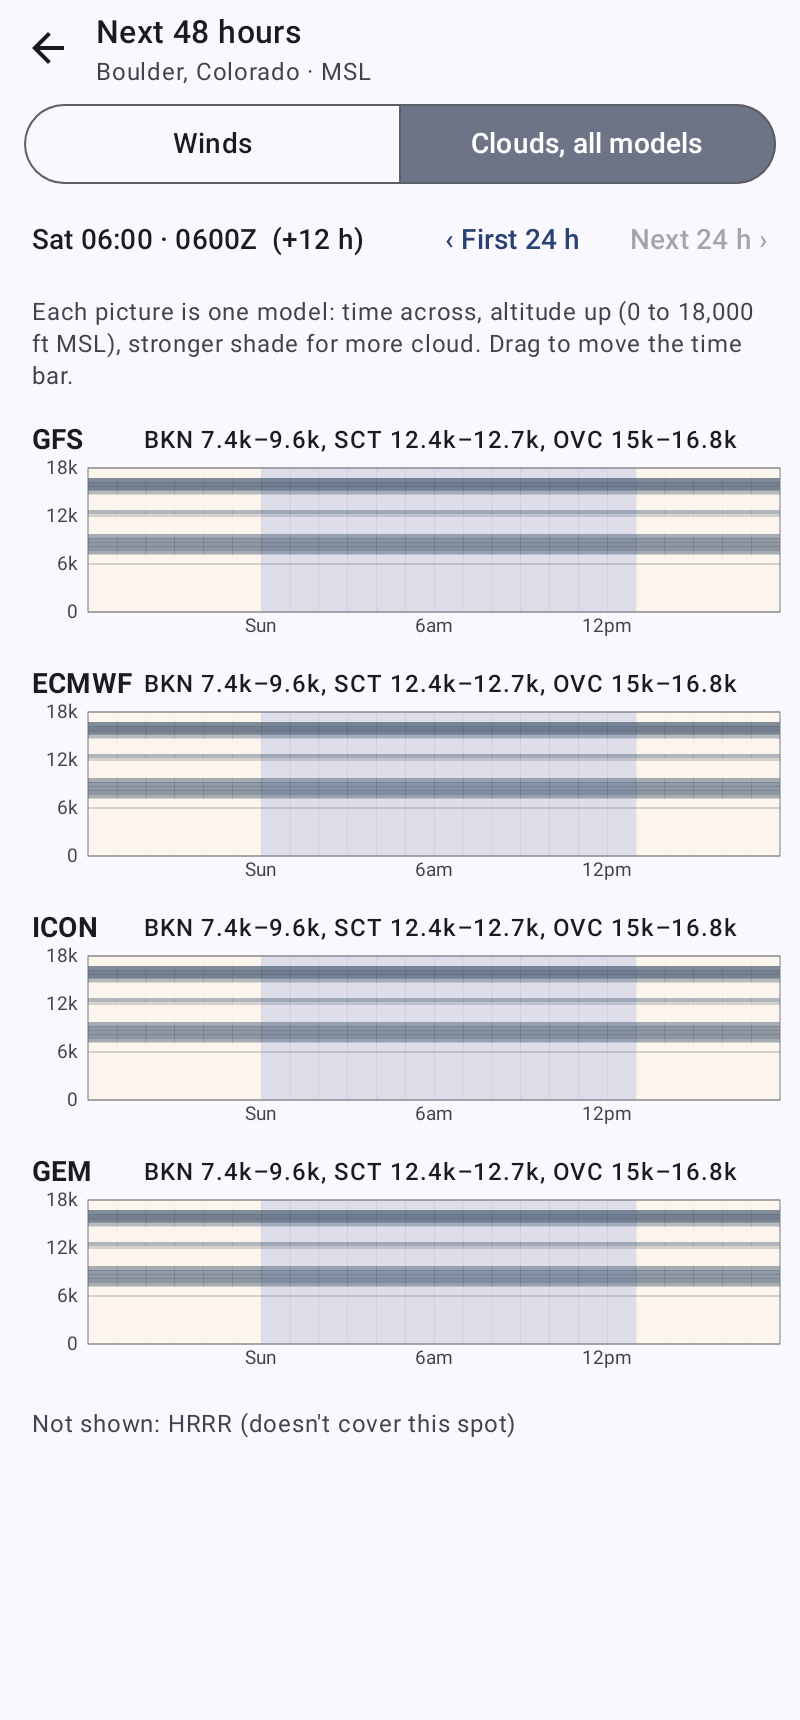
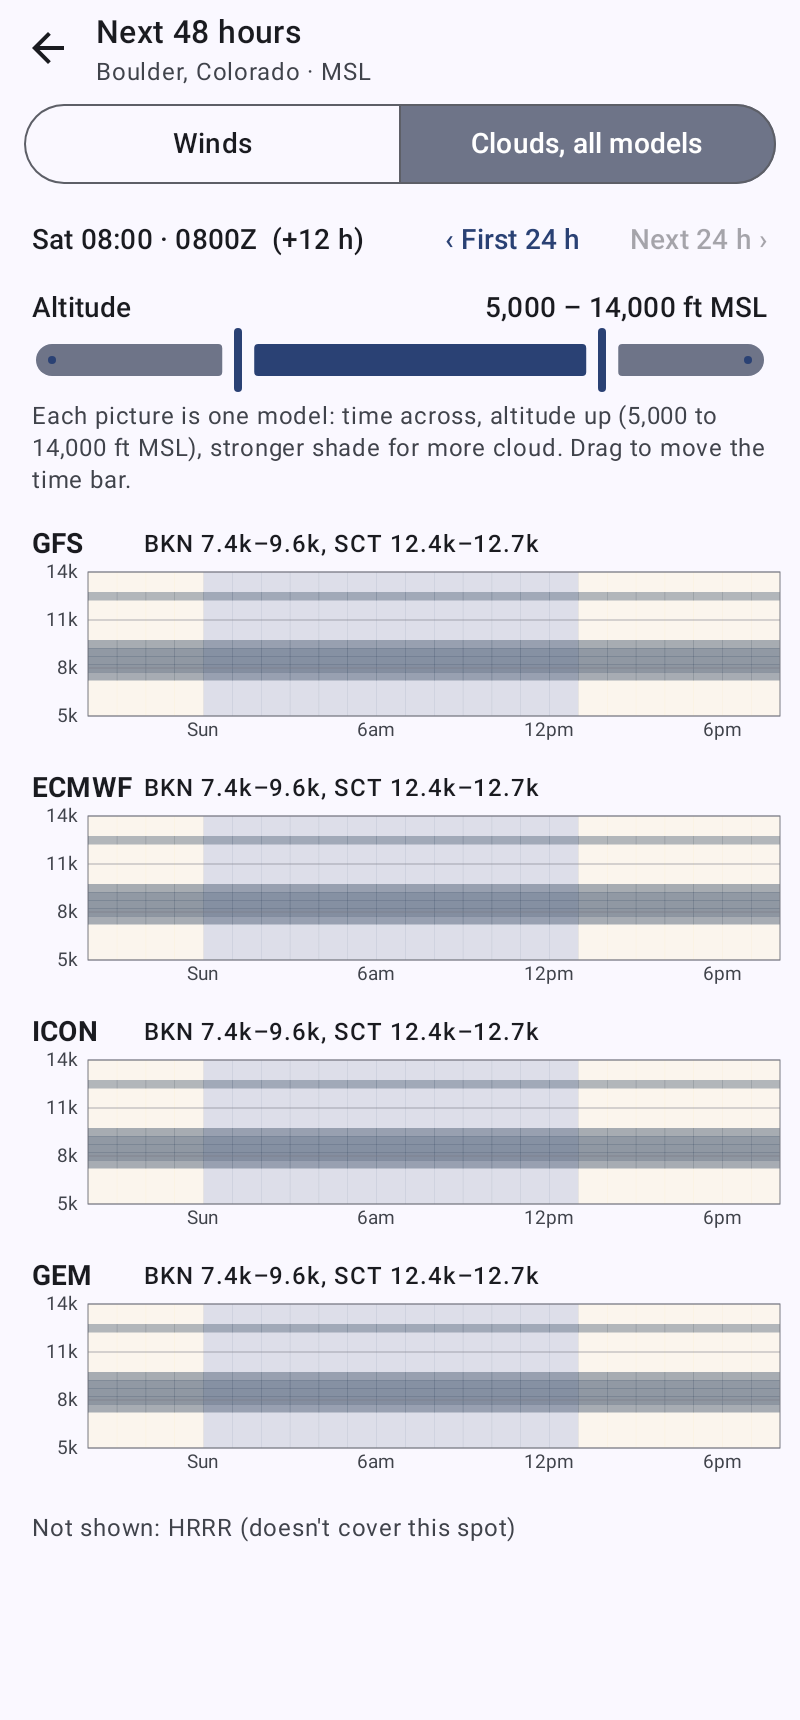
0.11.2: altitude range slider on the two-day page
The two-day page gets the same altitude range slider as the map (one
shared setting): wind strips show only the picked altitudes and the
cloud pictures span that range, with matching layer summaries. Also
avoids the first day's label overlapping a nearby midnight label.

Claude-Session: https://claude.ai/code/session_01ASfqcF537i7kv6SW4BHrd9

diff --git a/app/src/main/java/dev/windsaloft/ui/TwoDayScreen.kt b/app/src/main/java/dev/windsaloft/ui/TwoDayScreen.kt
@@ -27,6 +27,7 @@ import androidx.compose.material3.FilterChip
 import androidx.compose.material3.Icon
 import androidx.compose.material3.IconButton
 import androidx.compose.material3.MaterialTheme
+import androidx.compose.material3.RangeSlider
 import androidx.compose.material3.SegmentedButton
 import androidx.compose.material3.SegmentedButtonDefaults
 import androidx.compose.material3.SingleChoiceSegmentedButtonRow
@@ -99,7 +100,7 @@ private const val WINDOW = 24
  * the time bar past the edge, or use the 24 h buttons to see the other day.
  */
 @Composable
-fun TwoDayScreen(state: UiState, onDismiss: () -> Unit, modifier: Modifier = Modifier) {
+fun TwoDayScreen(state: UiState, onDismiss: () -> Unit, onAltRange: (IntRange) -> Unit = {}, modifier: Modifier = Modifier) {
     BackHandler(onBack = onDismiss)
     val s = state.settings
     val models = s.modelIds
@@ -137,6 +138,7 @@ fun TwoDayScreen(state: UiState, onDismiss: () -> Unit, modifier: Modifier = Mod
                 TextButton(onClick = { scope.launch { scroll.animateTo(0f) } }, enabled = scroll.value > 0.01f) { Text("‹ First 24 h") }
                 TextButton(onClick = { scope.launch { scroll.animateTo(1f) } }, enabled = scroll.value < 0.99f) { Text("Next 24 h ›") }
             }
+            AltitudeRange(state, onAltRange)
             val axis = remember { AxisModel({ scroll.value }) { f -> scope.launch { scroll.snapTo(f.coerceIn(0f, 1f)) } } }
             if (!cloudsAll) {
                 // Only the models picked in Settings; one tap switches.
@@ -168,6 +170,28 @@ fun TwoDayScreen(state: UiState, onDismiss: () -> Unit, modifier: Modifier = Mod
                 AllModelClouds(state, models.filter { state.pinForecasts[it] != null }, cursor, zone, axis, shade, Modifier.weight(1f).fillMaxWidth(), onCursor = { cursor = it })
             }
         }
+    }
+}
+
+/** The same altitude range as the main map (changing it here changes it there too). */
+@Composable
+private fun AltitudeRange(state: UiState, onAltRange: (IntRange) -> Unit) {
+    val s = state.settings
+    val ceilK = s.ceilingFt / 1000
+    Column(Modifier.fillMaxWidth().padding(horizontal = 16.dp)) {
+        Row(verticalAlignment = Alignment.CenterVertically) {
+            Text("Altitude", style = MaterialTheme.typography.labelLarge, modifier = Modifier.weight(1f))
+            Text(
+                "${Format.feet(state.altRangeK.first * 1000)} – ${Format.feet(state.altRangeK.last * 1000)} ft ${s.altitudeRef.name}",
+                style = MaterialTheme.typography.labelLarge,
+            )
+        }
+        RangeSlider(
+            value = state.altRangeK.first.toFloat()..state.altRangeK.last.toFloat(),
+            onValueChange = { r -> onAltRange(r.start.roundToInt()..r.endInclusive.roundToInt()) },
+            valueRange = 0f..ceilK.toFloat(),
+            modifier = Modifier.height(32.dp).semantics { contentDescription = "Altitude range" },
+        )
     }
 }
 
@@ -238,8 +262,8 @@ private fun WindStrips(
     modifier: Modifier, onCursor: (Int) -> Unit,
 ) {
     val s = state.settings
-    // All altitudes up to the ceiling, ground at the bottom; the map's altitude range is ignored here.
-    val altitudes = remember(s.ceilingFt) { (0..s.ceilingFt / 1000).map { it * 1000 } }
+    // The altitude range from the slider (shared with the map), ground at the bottom.
+    val altitudes = remember(state.altRangeK) { state.altitudesFt }
     val winds = remember(fp, state.nowHourEpoch, s.altitudeRef, altitudes) {
         (0..HOURS).map { h -> fp.windsAt(state.nowHourEpoch + h * 3600L, altitudes, s.altitudeRef) }
     }
@@ -370,7 +394,9 @@ private fun AllModelClouds(
     val muted = MaterialTheme.colorScheme.onSurfaceVariant
     val line = MaterialTheme.colorScheme.outlineVariant
     val cloudInk = if (MaterialTheme.colorScheme.surface.luminance() < 0.5f) Color(0xFFC9D3DE) else Color(0xFF55657A)
-    val ceiling = s.ceilingFt
+    // The picture spans the altitude range from the slider.
+    val lo = state.altRangeK.first * 1000
+    val hi = maxOf(state.altRangeK.last * 1000, lo + 1000)
     val step = 500
     val day = remember(state.pin, state.nowHourEpoch) { dayHours(state) }
     val density = LocalDensity.current.density
@@ -378,24 +404,24 @@ private fun AllModelClouds(
     val rightPad = 10 * density
     Column(modifier.verticalScroll(rememberScrollState()).padding(bottom = 16.dp)) {
         Text(
-            "Each picture is one model: time across, altitude up (0 to ${Format.feet(ceiling)} ft ${s.altitudeRef.name}), stronger shade for more cloud. Drag to move the time bar.",
+            "Each picture is one model: time across, altitude up (${Format.feet(lo)} to ${Format.feet(hi)} ft ${s.altitudeRef.name}), stronger shade for more cloud. Drag to move the time bar.",
             style = MaterialTheme.typography.bodySmall, color = muted, modifier = Modifier.padding(horizontal = 16.dp, vertical = 4.dp),
         )
         if (models.isEmpty()) Text(if (state.pinLoading) "Loading forecasts…" else "No forecasts available.", Modifier.padding(16.dp))
         models.forEach { id ->
             val fp = state.pinForecasts[id] ?: return@forEach
-            val grid = remember(fp, state.nowHourEpoch, s.altitudeRef, ceiling) {
+            val grid = remember(fp, state.nowHourEpoch, s.altitudeRef, lo, hi) {
                 val base = if (s.altitudeRef == AltitudeRef.AGL) fp.elevationM else 0.0
                 (0..HOURS).map { h ->
                     val levels = fp.clouds.getOrNull(fp.hourIndex(state.nowHourEpoch + h * 3600L)).orEmpty()
-                    (0..ceiling / step).map { k ->
-                        val m = base + k * step * M_PER_FT
+                    (0..(hi - lo) / step).map { k ->
+                        val m = base + (lo + k * step) * M_PER_FT
                         if (levels.isEmpty() || m < fp.elevationM) -1.0 else WindMath.cloudAt(levels, m) ?: 0.0
                     }
                 }
             }
             val noData = grid.all { col -> col.all { it < 0 } }
-            val layers = fp.cloudLayers(state.nowHourEpoch + cursor * 3600L, s.altitudeRef, 0, ceiling)
+            val layers = fp.cloudLayers(state.nowHourEpoch + cursor * 3600L, s.altitudeRef, lo, hi)
             Row(Modifier.padding(start = 16.dp, end = 12.dp, top = 10.dp), verticalAlignment = Alignment.CenterVertically) {
                 Text(OpenMeteo.short(id), style = MaterialTheme.typography.labelLarge, fontWeight = FontWeight.Bold, modifier = Modifier.width(56.dp))
                 Text(
@@ -406,14 +432,17 @@ private fun AllModelClouds(
             Canvas(Modifier.fillMaxWidth().height(92.dp).timeGestures(axis, { y, h -> y > h - 16 * density }, onCursor, left, rightPad)) {
                 val ax = TimeAxis(left, size.width - rightPad, axis.scroll)
                 val top = 4.dp.toPx(); val bottom = size.height - 16.dp.toPx()
-                fun y(ft: Float) = bottom - (bottom - top) * ft / ceiling
+                fun y(ft: Float) = bottom - (bottom - top) * (ft - lo) / (hi - lo)
+                val bin = (bottom - top) * step / (hi - lo)
                 clipRect(ax.left, 0f, ax.right, size.height) {
                     dayNight(ax, day, shade, top, bottom, null)
-                    for (h in 0 until HOURS) grid[h].forEachIndexed { k, pct ->
-                        if (pct >= WindMath.CLOUD_LAYER_MIN_PCT) drawRect(
-                            cloudInk.copy(alpha = (0.2 + 0.65 * pct / 100).toFloat().coerceAtMost(0.88f)),
-                            Offset(ax.x(h.toFloat()), y((k + 0.5f) * step)), Size(ax.x(h + 1f) - ax.x(h.toFloat()) + 0.5f, y(0f) - y(step.toFloat()) + 0.5f),
-                        )
+                    clipRect(ax.left, top, ax.right, bottom) {
+                        for (h in 0 until HOURS) grid[h].forEachIndexed { k, pct ->
+                            if (pct >= WindMath.CLOUD_LAYER_MIN_PCT) drawRect(
+                                cloudInk.copy(alpha = (0.2 + 0.65 * pct / 100).toFloat().coerceAtMost(0.88f)),
+                                Offset(ax.x(h.toFloat()), y(lo + (k + 0.5f) * step)), Size(ax.x(h + 1f) - ax.x(h.toFloat()) + 0.5f, bin + 0.5f),
+                            )
+                        }
                     }
                     for (h in 0..HOURS) {
                         val zt = Instant.ofEpochSecond(state.nowHourEpoch + h * 3600L).atZone(zone)
@@ -423,7 +452,7 @@ private fun AllModelClouds(
                     drawLine(ink.copy(alpha = 0.8f), Offset(cx, top), Offset(cx, bottom), 1.5.dp.toPx())
                 }
                 drawRect(line, Offset(ax.left, top), Size(ax.right - ax.left, bottom - top), style = Stroke(1f))
-                listOf(0, ceiling / 3 / 1000 * 1000, ceiling * 2 / 3 / 1000 * 1000, ceiling).forEach { ft ->
+                listOf(lo, (lo + (hi - lo) / 3) / 1000 * 1000, (lo + (hi - lo) * 2 / 3) / 1000 * 1000, hi).distinct().forEach { ft ->
                     drawLine(line, Offset(ax.left, y(ft.toFloat())), Offset(ax.right, y(ft.toFloat())), 0.6f)
                     txt(measurer, if (ft == 0) "0" else "${ft / 1000}k", Offset(ax.left - 5.dp.toPx(), y(ft.toFloat()) - 6.dp.toPx()), muted, 9.5f, right = true)
                 }
@@ -471,7 +500,7 @@ private fun DrawScope.hourAxis(ax: TimeAxis, state: UiState, zone: ZoneId, top: 
     }
     // Name the first day too, unless a midnight label is right there.
     val first = Instant.ofEpochSecond(state.nowHourEpoch).atZone(zone)
-    if (first.hour in 1..20) txt(m, DAY.format(first), Offset(ax.x(0f) + 3.dp.toPx(), 1.dp.toPx()), ink, 11f, bold = true)
+    if (first.hour in 1..17) txt(m, DAY.format(first), Offset(ax.x(0f) + 3.dp.toPx(), 1.dp.toPx()), ink, 11f, bold = true)
 }
 
 /** A thin bar showing which part of the 48 hours is on screen. */

diff --git a/app/src/test/java/dev/windsaloft/ui/ScreenshotTest.kt b/app/src/test/java/dev/windsaloft/ui/ScreenshotTest.kt
@@ -150,7 +150,7 @@ class ScreenshotTest {
         val state = UiState(
             settings = settings, pin = pin, pinLabel = "Boulder, Colorado",
             pinForecasts = sixModels.take(4).mapIndexed { i, m -> m to syntheticPoint(pin, 1580.0, now, i * 1.6) }.toMap(),
-            nowHourEpoch = now, hourOffset = 10, unavailableModels = setOf("ncep_hrrr_conus"),
+            nowHourEpoch = now, hourOffset = 10, unavailableModels = setOf("ncep_hrrr_conus"), altRangeK = 5..14,
         )
         compose.setContent { WindsAloftTheme { TwoDayScreen(state, {}) } }
         compose.waitForIdle()

diff --git a/app/src/main/java/dev/windsaloft/ui/WindsAloftApp.kt b/app/src/main/java/dev/windsaloft/ui/WindsAloftApp.kt
@@ -445,7 +445,7 @@ fun WindsAloftApp(vm: MainViewModel) {
         )
     }
     if (showTwoDay && state.pin != null) {
-        TwoDayScreen(state = state, onDismiss = { showTwoDay = false })
+        TwoDayScreen(state = state, onDismiss = { showTwoDay = false }, onAltRange = vm::setAltRange)
     }
     if (showPlaces) {
         PlacesDialog(

diff --git a/README.md b/README.md
@@ -32,6 +32,7 @@ Phone turned on its side (default *Along the long side*): the chart keeps runnin
 - **Forecast-time slider**: from now out to about 72–90 h, in 1 h steps. Shows local time and Zulu time. The track previews what's coming: night is shaded, a tiny graph shows the ground wind (dotted line: gusts), and a thin bar darkens where there's cloud. Tap or drag anywhere on it.
 - **Two-day page** (the *48h* button): the next 48 hours on its own page, 24 hours to a screen.
   - **Moving around:** drag or tap on a chart to move the time bar. Drag the hour labels, or push the time bar past the edge, to scroll to the other day; *First 24 h* and *Next 24 h* jump. Day and night are shaded differently (☀ / ☾), in light and dark mode.
+  - **Altitude range:** a slider at the top picks which altitudes the strips and cloud pictures cover. It's the same range as on the map, so changing it on one page changes both.
   - *Winds*: one strip per altitude, stacked like the map chart. The line's height is the speed, and it's drawn with arrows showing the direction. Each strip is labelled with its high and low for the hours on screen, and shaded grey where that model has cloud at that altitude. The time bar shows every altitude's direction, speed (gust) and temperature. Model chips switch between the models picked in Settings.
   - *Clouds, all models*: each selected model's cloud forecast as a small time-by-altitude picture, one under another, with the layers at the time bar beside each name. This is the quickest way to compare cloud bases across models.
 - **Altitude range slider**: picks which 1,000 ft levels to draw and list, from 0 up to the ceiling you set.
